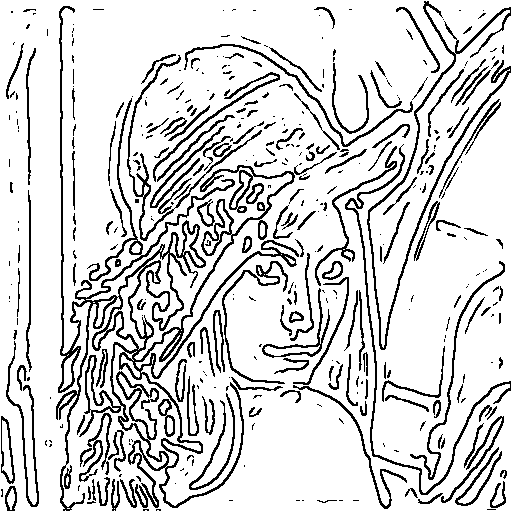
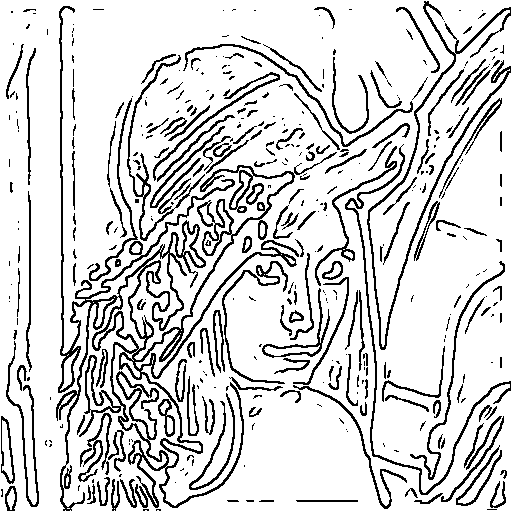
Refatoração de algumas partes e adição de comentarios

Changed region(s): [[0.6562, 0.9688, 0.6875, 1.0], [0.5938, 0.9688, 0.625, 1.0]]

diff --git a/Detector/detector.py b/Detector/detector.py
@@ -2,90 +2,100 @@ import matplotlib.pyplot as plt
 import matplotlib.image as mpimg
 import numpy as np
 
-laplacian_kernel = np.array([[1, 1, 1], [1, -8, 1], [1, 1, 1]])
 
-def marrhildreth(image, sigma, threshold):
+def marrhildreth(image, sigma, threshold, laplacian_kernel):
     
-    g_kernel = gaussian_kernel(sigma)
-    blurred = convolve(image, g_kernel)
+    # Aplicar o filtro Gaussiano para suavizar a imagem,
+    # Cria o kernel Gaussiano
+    g_kernel = gaussian_kernel(sigma)  
+    
+    # Aplica a convolução com o kernel Gaussiano
+    blurred = convolve(image, g_kernel)  
 
-    laplacian = convolve(blurred, laplacian_kernel)
+    # Aplicar o filtro Laplaciano para detectar bordas, aplicando a convolução 
+    # com o kernel Laplaciano ([1, 1, 1], [1, -8, 1], [1, 1, 1])
+    laplacian = convolve(blurred, laplacian_kernel)  
 
-    edges = zero_crossing(laplacian, threshold=threshold)
+    # Detectar cruzamentos por zero para identificar bordas
+    edges = zero_crossing(laplacian, threshold=threshold) 
+
+    # Retorna a imagem com as bordas
     return edges
+
+import numpy as np
 
 def convolve(image, kernel):
 
-    krows, kcols = kernel.shape
-    rows, cols = image.shape
+    krows, kcols = kernel.shape  # Dimensões do kernel
+    rows, cols = image.shape  # Dimensões da imagem
 
-    padded = np.pad(image, (krows // 2, kcols // 2), mode="constant")
+    # Adiciona padding à imagem para tratar bordas
+    pad_rows = krows // 2
+    pad_cols = kcols // 2
+    padded = np.pad(image, ((pad_rows, pad_rows), (pad_cols, pad_cols)), mode="constant")
+
+    # Inicializa o array de saída
     conv = np.empty_like(image, dtype=np.float32)
-    if rows * cols < 2**20:  # Fast convolution for small images
+
+    # Verifica o tamanho da imagem para escolher o método de convolução
+    if rows * cols < 2**20:  # Para imagens pequenas, usa uma abordagem vetorizada
+        
+        # Cria uma matriz onde cada linha é uma janela do kernel na imagem
         stacked = np.array(
             [
-                np.ravel(padded[i : i + krows, j : j + kcols])
+                padded[i : i + krows, j : j + kcols].ravel()
                 for i in range(rows)
                 for j in range(cols)
             ],
             dtype=np.float32,
         )
 
-        conv = (stacked @ np.ravel(kernel)).reshape(rows, cols)
-    else:  # Memory efficient convolution for large images
-        for i in range(rows - krows // 2):
-            for j in range(cols - kcols // 2):
-                conv[i][j] = np.sum(padded[i : i + krows, j : j + kcols] * kernel)
+        # Aplica a convolução como um produto matricial
+        conv = (stacked @ kernel.ravel()).reshape(rows, cols)
+        
+    else:  # Para imagens grandes, usa uma abordagem iterativa para economizar memória
+        for i in range(rows):
+            for j in range(cols):
+                # Extrai a região da imagem correspondente ao kernel e aplica a convolução
+                conv[i, j] = np.sum(padded[i : i + krows, j : j + kcols] * kernel)
 
     return conv
 
-
 def gaussian_kernel(sigma):
    
-    size = np.ceil(3 * sigma).astype(int)
+    # Define o tamanho do kernel como 6 * sigma + 1 (garante um tamanho ímpar)
+    size = int(np.ceil(6 * sigma)) // 2 * 2 + 1  # Tamanho ímpar centralizado
 
-    x = np.arange(-size, size + 1)
-
+    # Cria um grid de coordenadas centradas em zero
+    x = np.arange(-size // 2, size // 2 + 1)
     X, Y = np.meshgrid(x, x)
 
+    # Calcula o kernel Gaussiano usando a fórmula
     kernel = np.exp(-(X**2 + Y**2) / (2 * sigma**2))
-    kernel = kernel / (2 * np.pi * sigma**2)
+    kernel /= (2 * np.pi * sigma**2)  # Normaliza o kernel
 
     return kernel
 
 
 def zero_crossing(image, threshold):
-   
-    N, M = image.shape
-
-    edges = np.zeros_like(image, dtype=np.uint8)
-    for i in range(N):
-        for j in range(M):
-            if i > 0 and i < N - 1:
-                left = image[i - 1, j]
-                right = image[i + 1, j]
-                if left * right < 0 and np.abs(left - right) > threshold:
-                    edges[i, j] = 255
-            if j > 0 and j < M - 1:
-                up = image[i, j + 1]
-                down = image[i, j - 1]
-                if up * down < 0 and np.abs(up - down) > threshold:
-                    edges[i, j] = 255
-            if (i > 0 and i < N - 1) and (j > 0 and j < M - 1):
-                up_left = image[i - 1, j - 1]
-                down_right = image[i + 1, j + 1]
-                down_left = image[i - 1, j + 1]
-                up_right = image[i + 1, j - 1]
-                if (
-                    up_left * down_right < 0
-                    and np.abs(up_left - down_right) > threshold
-                ):
-                    edges[i, j] = 255
-                elif (
-                    down_left * up_right < 0
-                    and np.abs(down_left - up_right) > threshold
-                ):
-                    edges[i, j] = 255
-    return edges
-
     
+    N, M = image.shape  # Dimensões da imagem
+    edges = np.zeros_like(image, dtype=np.uint8)  # Inicializa a imagem de bordas
+
+    # Percorre a imagem (exceto as bordas)
+    for i in range(1, N - 1):
+        for j in range(1, M - 1):
+            # Verifica cruzamentos por zero nas direções horizontal, vertical e diagonais
+            neighbors = [
+                (image[i - 1, j], image[i + 1, j]),  # Vizinhos horizontal
+                (image[i, j - 1], image[i, j + 1]),  # Vizinhos vertical
+                (image[i - 1, j - 1], image[i + 1, j + 1]),  # Diagonal principal
+                (image[i - 1, j + 1], image[i + 1, j - 1]),  # Diagonal secundária
+            ]
+
+            for a, b in neighbors:
+                if a * b < 0 and np.abs(a - b) > threshold:  # Cruzamento por zero válido
+                    edges[i, j] = 255
+                    break  # Se um cruzamento válido for encontrado, não precisa verificar os outros
+
+    return edges

diff --git a/main.py b/main.py
@@ -5,6 +5,7 @@ from rich.prompt import Prompt
 import Detector.detector as detector
 import Utils.utils_imagem as ut_img
 import Utils.utils_code as ut_code
+import numpy as np
 
 # Variáveis para passagem de argumentos via terminal
 parser = argparse.ArgumentParser()
@@ -13,6 +14,7 @@ parser = argparse.ArgumentParser()
 SAVE = parser.add_argument('--save', action='store_true', help='Salvar a imagem na pasta de resultados')
 
 def marr(imagem_escolhida, tipo, sigma, threshold):
+    
     # Leitura da imagem com o matplotlib para a plotagem depois
     Imagem_Original_Mat = ut_img.leitura_Imagem_Matplotlib('./imagens/{}'.format(imagem_escolhida))
     
@@ -20,8 +22,7 @@ def marr(imagem_escolhida, tipo, sigma, threshold):
     Imagem_Original = ut_img.leitura_Imagem('./imagens/{}'.format(imagem_escolhida))    
 
     # Filtro de Marr-Hildreth
-    Imagem_Filtrada = detector.marrhildreth(Imagem_Original, sigma, threshold)
-    
+    Imagem_Filtrada = detector.marrhildreth(Imagem_Original, sigma, threshold, np.array([[1, 1, 1], [1, -8, 1], [1, 1, 1]]))
     
     # Realiza a plotagem das imagens
     ut_img.plotagem_imagem(Imagem_Original_Mat, Imagem_Original, Imagem_Filtrada)

diff --git a/Utils/utils_imagem.py b/Utils/utils_imagem.py
@@ -38,7 +38,7 @@ def plotagem_imagem(Imagem_Original_Mat, Imagem_Original, Imagem_Filtrada):
     axs[1].set_title('Imagem Original em Escala de Cinza')
     
     axs[2].imshow(Imagem_Filtrada, cmap='Greys')
-    axs[2].set_title('Imagem Filtrada')
+    axs[2].set_title('Imagem com Filtro Marr-Hildreth')
     
     # Remove os eixos dos subplots
     for ax in axs.flat:
